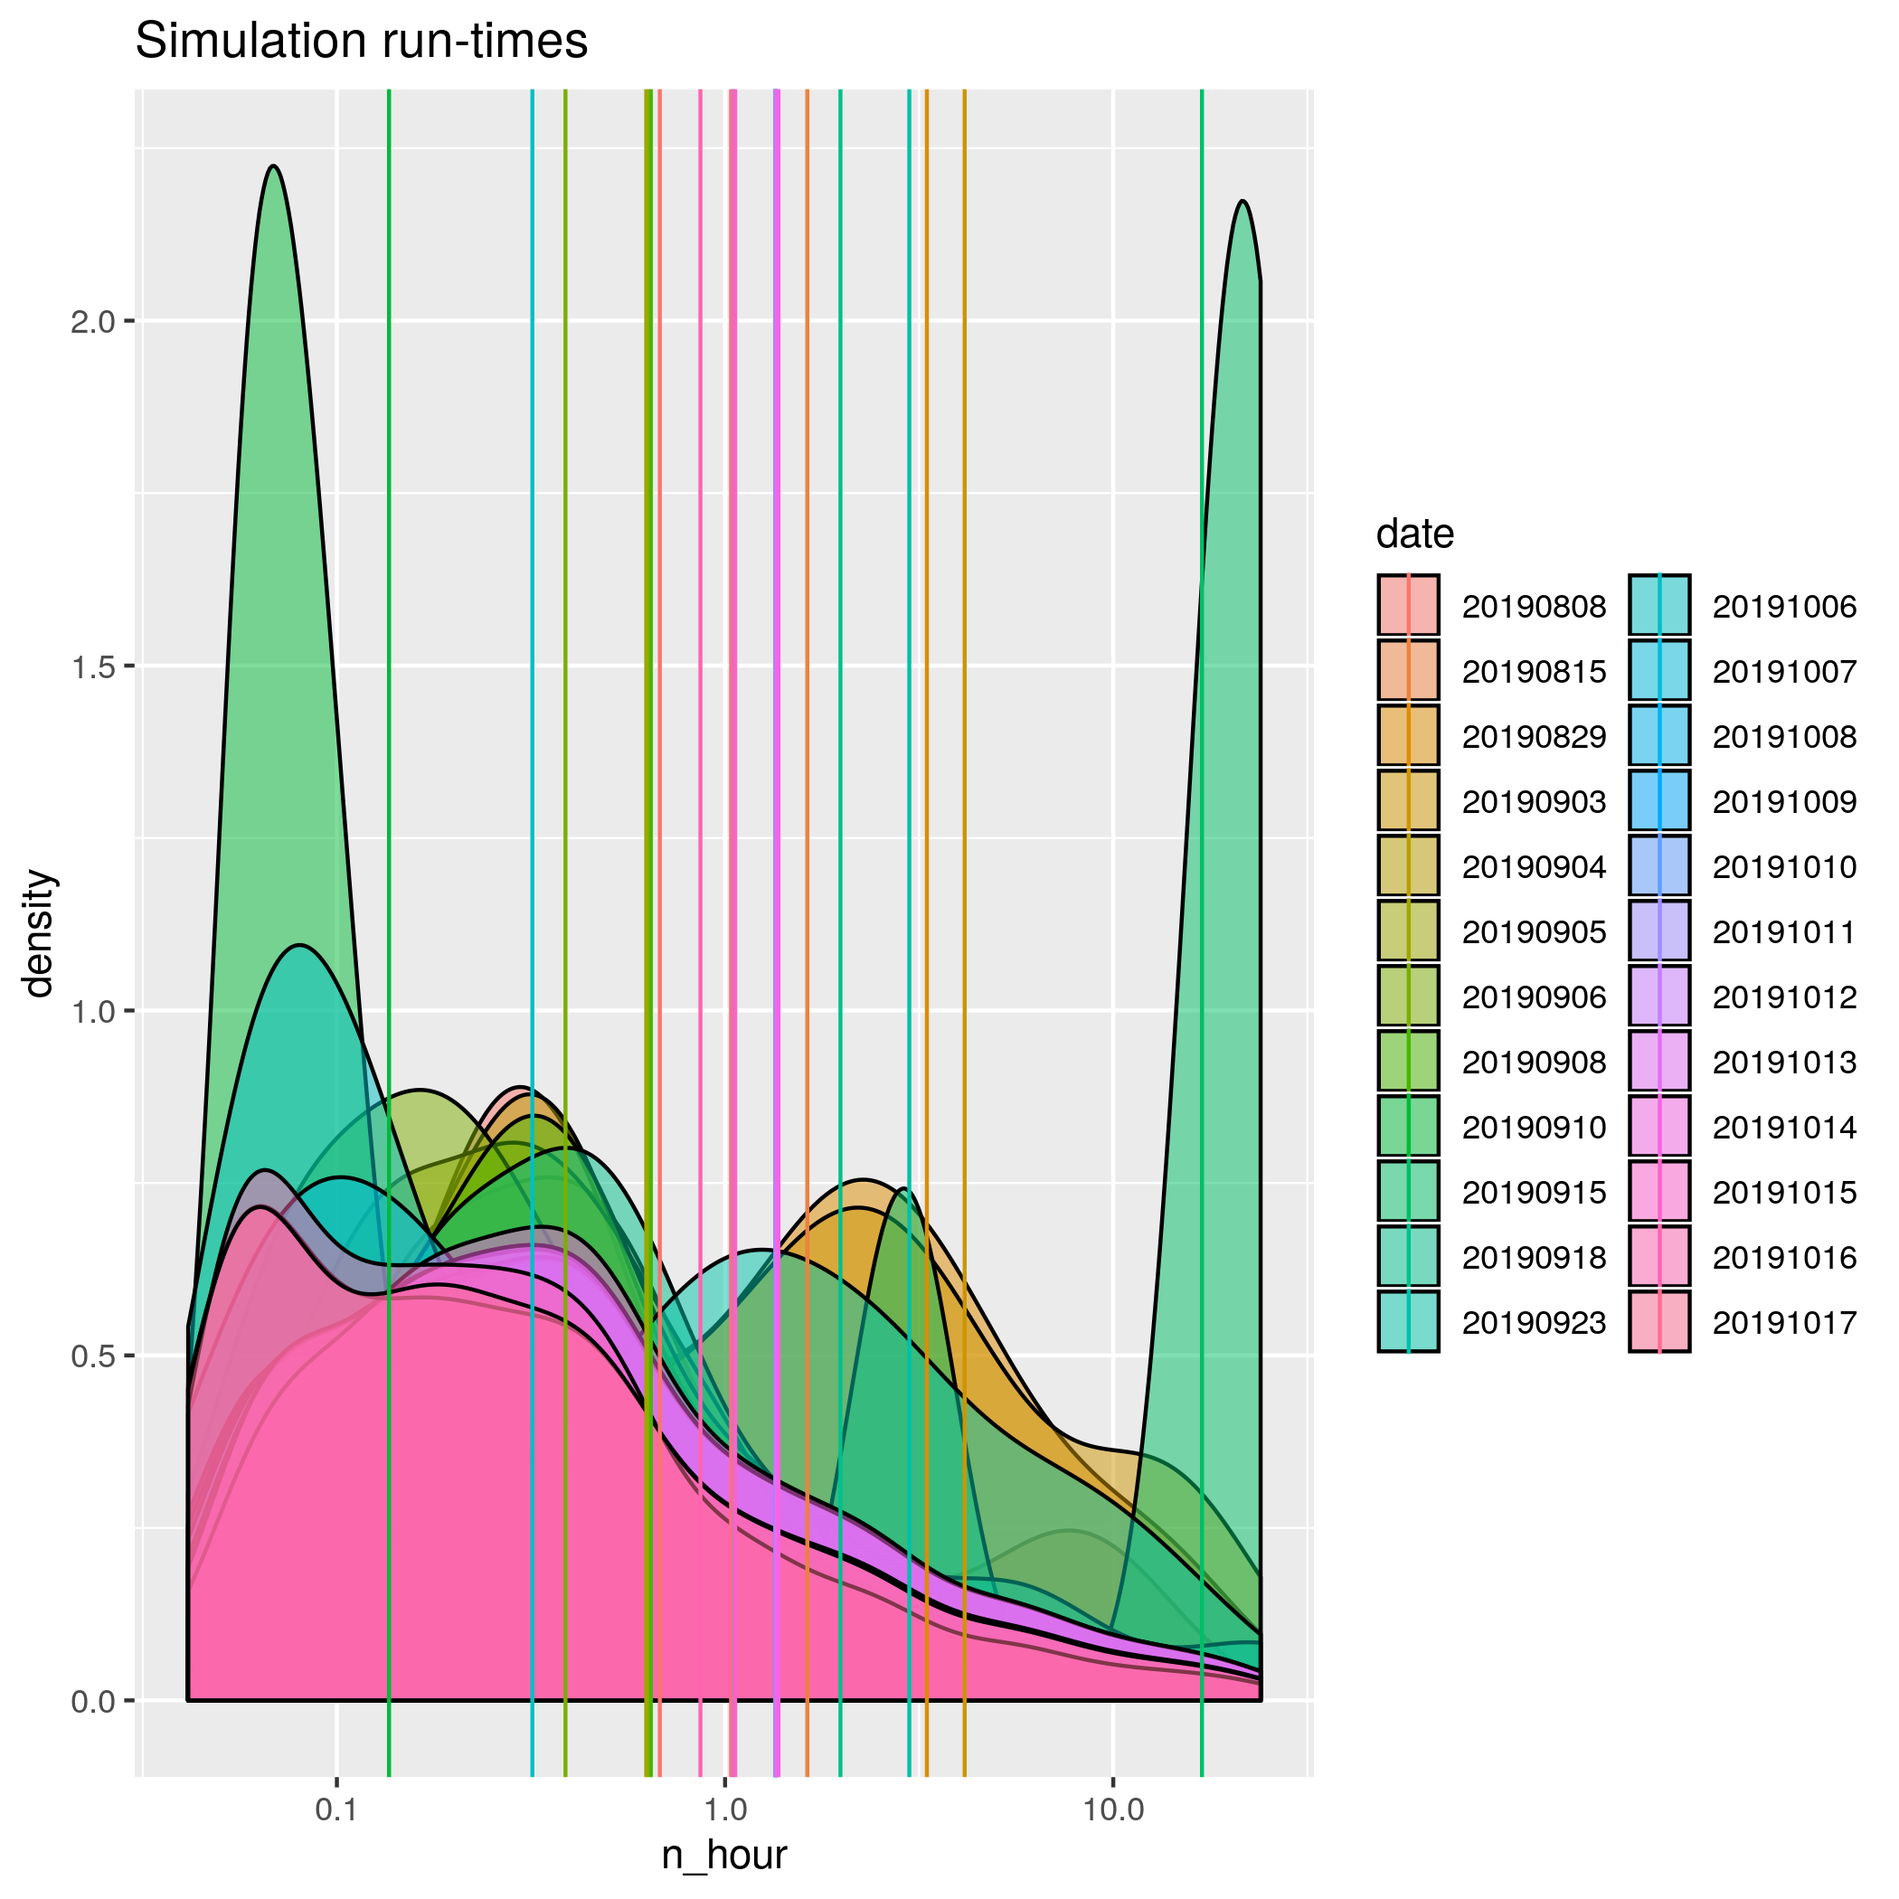
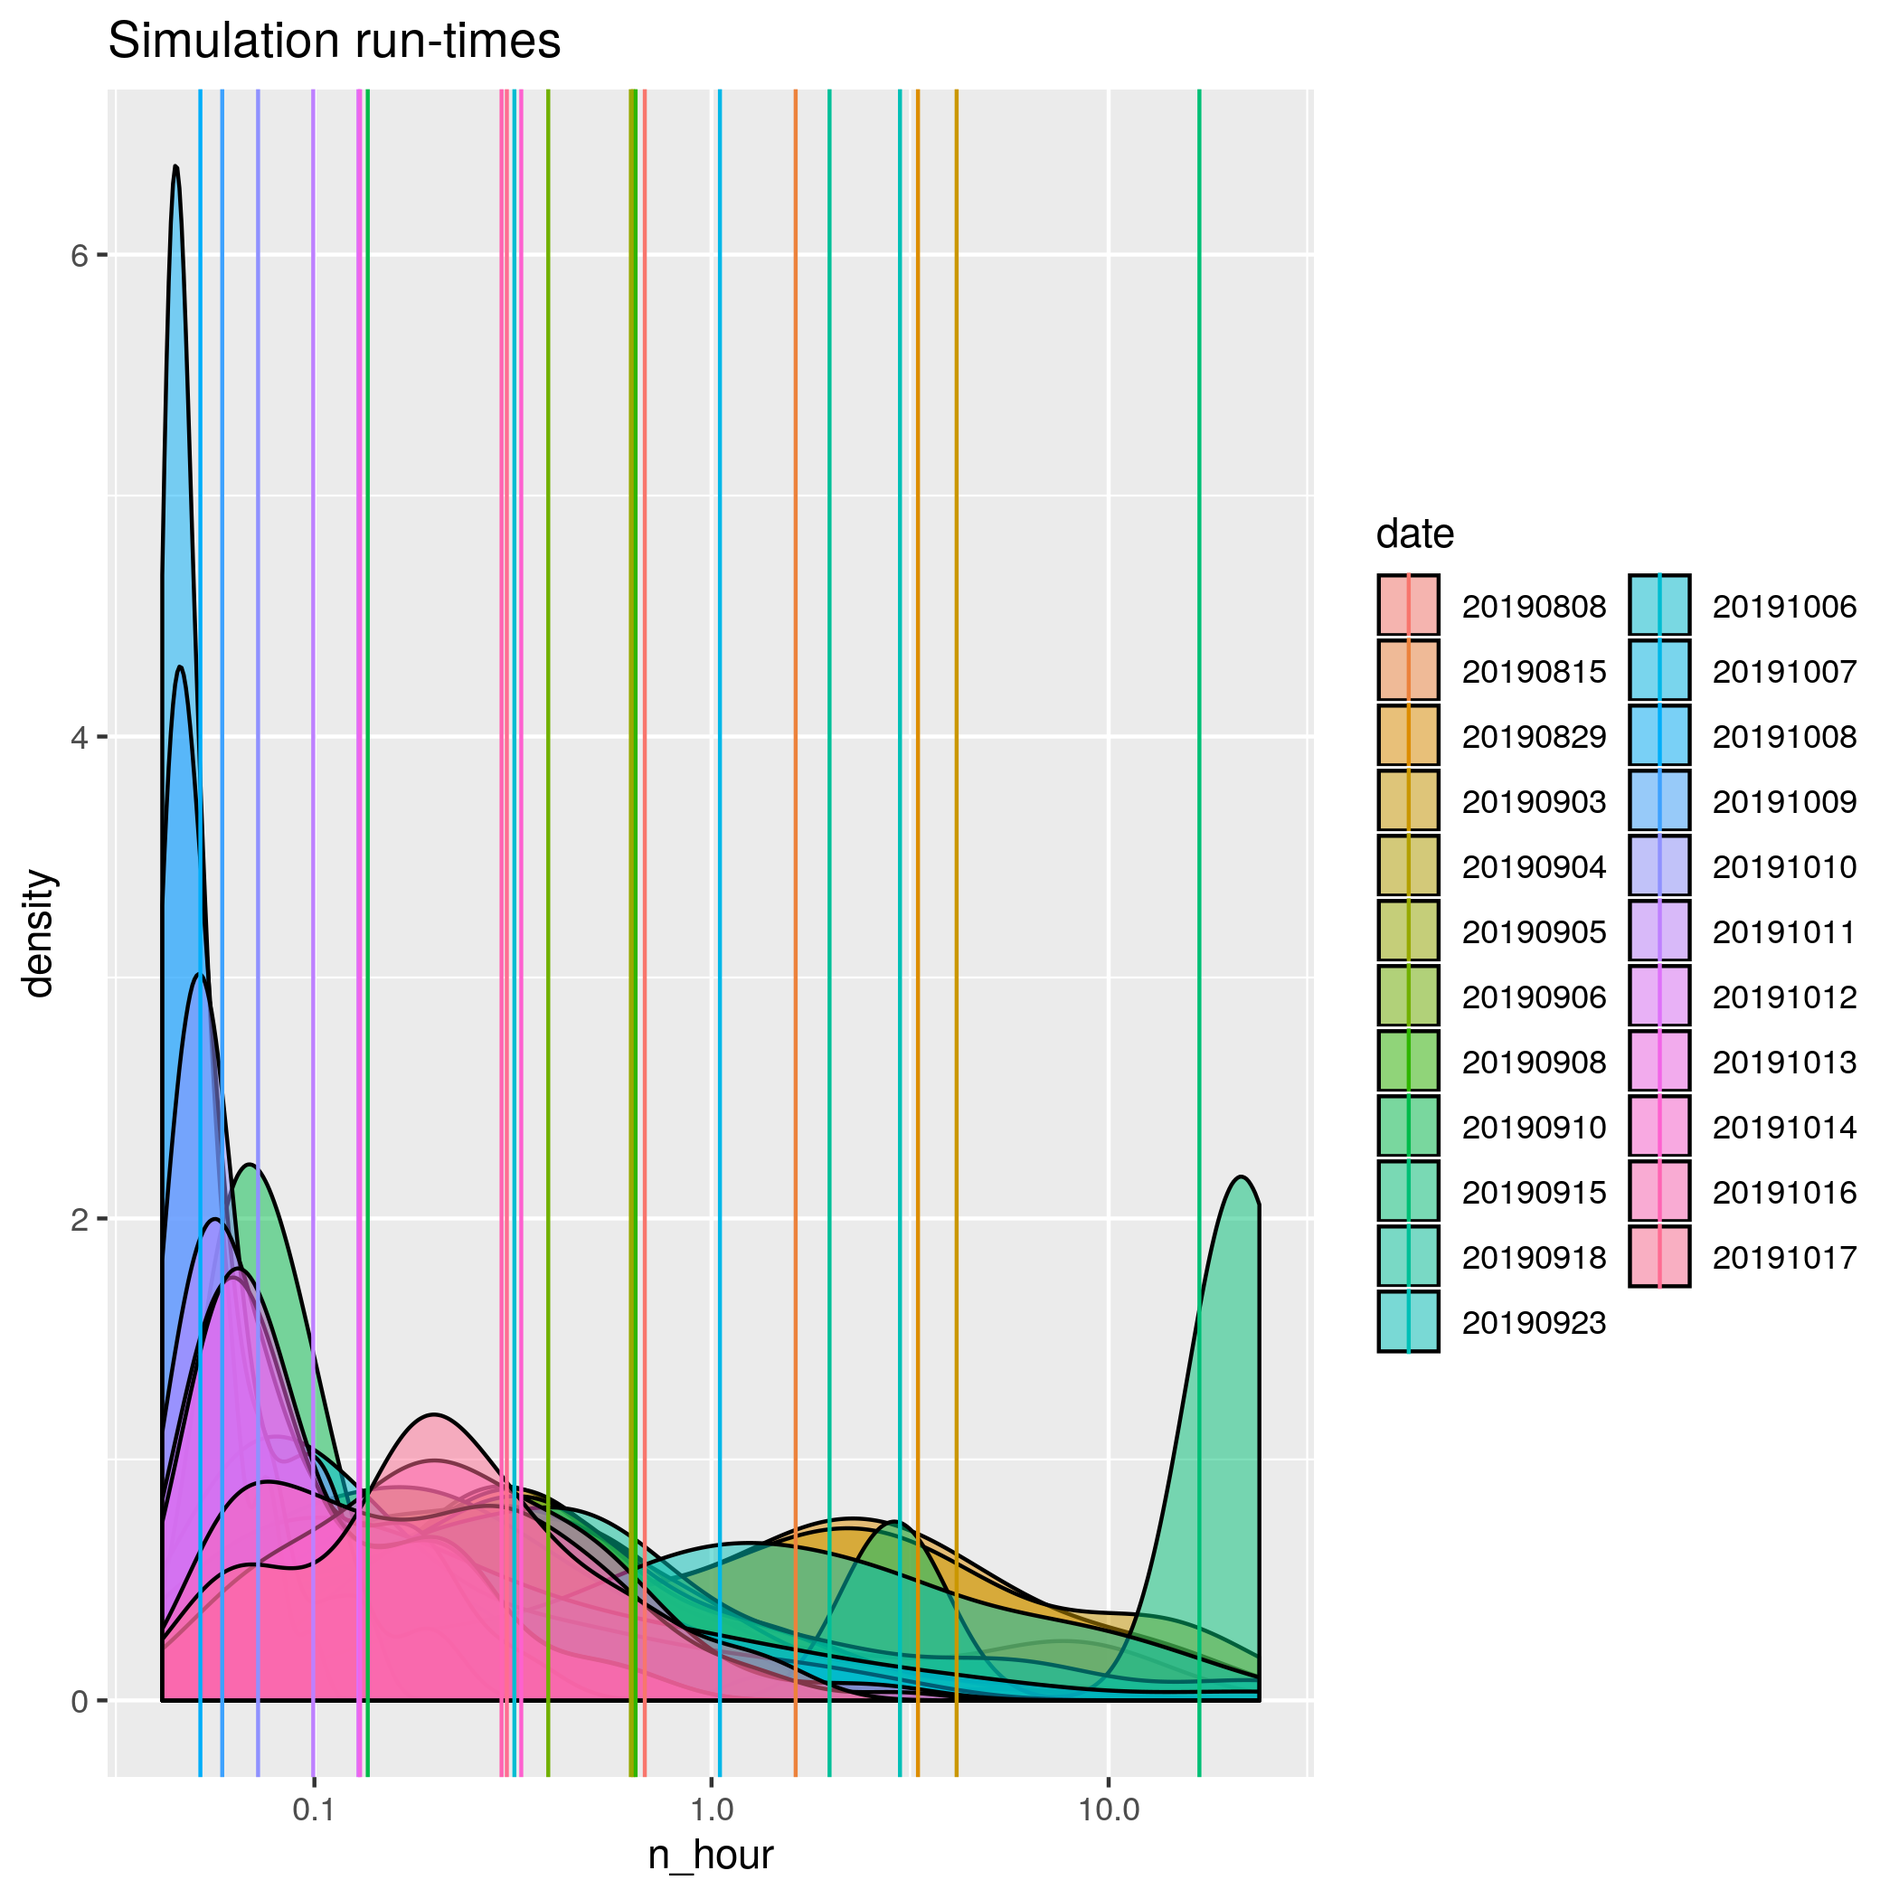
Updated figures, overview, verdict, fixed bug in 'scripts/90_collect_run_times.R'. Note that script does give a warning and thus cannot be trusted too much

diff --git a/overview.md b/overview.md
@@ -1,23 +1,25 @@
-|date     | mean_runtime_hours|      f_ok|    f_fail|  f_cancel| crown_age| n_candidates| mutation_rate| mcmc_chain_length| n_particles| n_replicates| mean_n_taxa| mean_ess| perc_low_ess| dna_length|nus           |
-|:--------|------------------:|---------:|---------:|---------:|---------:|------------:|-------------:|-----------------:|-----------:|------------:|-----------:|--------:|------------:|----------:|:-------------|
-|20190808 |          0.6791088| 1.0000000| 0.0000000| 0.0000000|         6|            3|        0.0625|           1111000|           1|            2|   26.812500| 541.2969|     31.25000|       1000|1,1.5,2,2.5   |
-|20190815 |          1.6287905| 0.9375000| 0.0000000| 0.0625000|         7|            3|        0.0625|           1111000|           1|            2|   56.750000| 463.0667|     36.66667|       1000|1,1.5,2,2.5   |
-|20190829 |          3.3101975| 0.9375000| 0.0625000| 0.0000000|         6|           40|        0.0625|           1000000|           1|            2|   26.812500| 421.7337|     39.13043|       1000|1,1.5,2,2.5   |
-|20190903 |          4.1418981| 0.9166667| 0.0000000| 0.0833333|         6|           40|        0.0625|           1000000|           1|            2|   26.812500| 429.4056|     37.77778|       1000|1,1.5,2,2.5   |
-|20190904 |          0.6348322| 1.0000000| 0.0000000| 0.0000000|         6|            4|        0.0625|           1000000|           1|            2|   26.812500| 478.9740|     31.25000|       1000|1,1.5,2,2.5   |
-|20190905 |          0.6264041| 0.9875000| 0.0125000| 0.0000000|         6|            4|        0.0625|           1000000|           1|           10|   28.333333| 502.4483|     28.90295|       1000|1,1.5,2,2.5   |
-|20190906 |          0.3879977| 1.0000000| 0.0000000| 0.0000000|         5|            4|        0.0625|           1000000|           1|            2|   17.666667| 610.8542|     19.27083|       1000|1,1.5,2,2.5   |
-|20190908 |          0.6437963| 1.0000000| 0.0000000| 0.0000000|         6|            4|        0.0625|           1000000|           1|            2|   26.812500| 478.9740|     31.25000|       1000|1,1.5,2,2.5   |
-|20190910 |          0.1362500| 1.0000000| 0.0000000| 0.0000000|         6|            4|        0.0625|           1000000|           1|            2|   26.812500| 583.5312|     16.66667|        100|1,1.5,2,2.5   |
-|20190915 |         16.9249306| 0.0833333| 0.9166667| 0.0000000|         6|            4|        0.0625|           1000000|          10|            2|   26.812500| 506.2708|     30.20833|       1000|1,1.5,2,2.5   |
-|20190918 |          1.9823404| 0.9583333| 0.0208333| 0.0208333|         7|            4|        0.0625|           1000000|           1|            2|   56.750000| 392.3895|     43.15789|       1000|1,1.5,2,2.5   |
-|20190923 |          2.9822315| 1.0000000| 0.0000000| 0.0000000|         7|            4|        0.0625|           1000000|          10|            2|   20.700000| 543.0250|     28.33333|       1000|0,0.5,1,1.5,2 |
-|20191006 |          0.3187825| 0.9791667| 0.0208333| 0.0000000|         7|            4|        0.0625|           1000000|           1|            2|   29.687500| 565.6211|     24.73684|        500|0,0.5,1,2     |
-|20191007 |          1.0499155| 0.9375000| 0.0416667| 0.0208333|         7|            4|        0.0625|           1000000|           1|            2|   29.687500| 509.5368|     33.15789|       1000|0,0.5,1,2     |
-|20191008 |          1.3474709| 0.8858025| 0.1049383| 0.0092593|         1|            4|        0.0625|           1000000|           1|            2|    2.645833| 705.4948|     18.75000|        500|0,0.5,1,2     |
-|20191009 |          1.3493396| 0.8847737| 0.1059671| 0.0092593|         2|            4|        0.0625|           1000000|           1|            2|    3.687500| 690.3594|     18.22917|        500|0,0.5,1,2     |
-|20191010 |          1.3486028| 0.8858025| 0.1049383| 0.0092593|         3|            4|        0.0625|           1000000|           1|            2|    5.020833| 633.2552|     25.52083|        500|0,0.5,1,2     |
-|20191011 |          1.3515414| 0.8847737| 0.1059671| 0.0092593|         4|            4|        0.0625|           1000000|           1|            2|    7.437500| 679.7865|     16.66667|        500|0,0.5,1,2     |
-|20191012 |          1.3517433| 0.8858025| 0.1049383| 0.0092593|         5|            4|        0.0625|           1000000|           1|            2|   10.083333| 637.8073|     21.35417|        500|0,0.5,1,2     |
-|20191013 |          1.3518132| 0.8858025| 0.1049383| 0.0092593|         5|            4|        0.0625|           1000000|           1|            2|   10.083333| 637.8073|     21.35417|        500|0,0.5,1,2     |
-|20191014 |          1.3724977| 0.8848548| 0.1058091| 0.0093361|         8|            4|        0.0625|           1000000|           1|            2|   24.125000| 487.3813|     29.37500|        500|0,0.5,1,1.5   |
+|date     |      f_ok|    f_fail|  f_cancel| mean_runtime_hours| crown_age| n_candidates| mutation_rate| mcmc_chain_length| n_particles| n_replicates| mean_n_taxa| mean_ess| perc_low_ess| dna_length|nus           |
+|:--------|---------:|---------:|---------:|------------------:|---------:|------------:|-------------:|-----------------:|-----------:|------------:|-----------:|--------:|------------:|----------:|:-------------|
+|20190808 | 1.0000000| 0.0000000| 0.0000000|          0.6791088|         6|            3|     0.0833333|           1111000|           1|            2|   26.812500| 541.2969|     31.25000|       1000|1,1.5,2,2.5   |
+|20190815 | 0.9375000| 0.0000000| 0.0625000|          1.6287905|         7|            3|     0.0833333|           1111000|           1|            2|   56.750000| 463.0667|     36.66667|       1000|1,1.5,2,2.5   |
+|20190829 | 0.9375000| 0.0625000| 0.0000000|          3.3101975|         6|           40|     0.0833333|           1000000|           1|            2|   26.812500| 421.7337|     39.13043|       1000|1,1.5,2,2.5   |
+|20190903 | 0.9166667| 0.0000000| 0.0833333|          4.1418981|         6|           40|     0.0833333|           1000000|           1|            2|   26.812500| 429.4056|     37.77778|       1000|1,1.5,2,2.5   |
+|20190904 | 1.0000000| 0.0000000| 0.0000000|          0.6348322|         6|            4|     0.0833333|           1000000|           1|            2|   26.812500| 478.9740|     31.25000|       1000|1,1.5,2,2.5   |
+|20190905 | 0.9875000| 0.0125000| 0.0000000|          0.6264041|         6|            4|     0.0833333|           1000000|           1|           10|   28.333333| 502.4483|     28.90295|       1000|1,1.5,2,2.5   |
+|20190906 | 1.0000000| 0.0000000| 0.0000000|          0.3879977|         5|            4|     0.0833333|           1000000|           1|            2|   17.666667| 610.8542|     19.27083|       1000|1,1.5,2,2.5   |
+|20190908 | 1.0000000| 0.0000000| 0.0000000|          0.6437963|         6|            4|     0.0833333|           1000000|           1|            2|   26.812500| 478.9740|     31.25000|       1000|1,1.5,2,2.5   |
+|20190910 | 1.0000000| 0.0000000| 0.0000000|          0.1362500|         6|            4|     0.0833333|           1000000|           1|            2|   26.812500| 583.5312|     16.66667|        100|1,1.5,2,2.5   |
+|20190915 | 0.0833333| 0.9166667| 0.0000000|         16.9249306|         6|            4|     0.0833333|           1000000|          10|            2|   26.812500| 506.2708|     30.20833|       1000|1,1.5,2,2.5   |
+|20190918 | 0.9583333| 0.0208333| 0.0208333|          1.9823404|         7|            4|     0.0833333|           1000000|           1|            2|   56.750000| 392.3895|     43.15789|       1000|1,1.5,2,2.5   |
+|20190923 | 1.0000000| 0.0000000| 0.0000000|          2.9822315|         7|            4|     0.0833333|           1000000|          10|            2|   20.700000| 543.0250|     28.33333|       1000|0,0.5,1,1.5,2 |
+|20191006 | 0.9791667| 0.0208333| 0.0000000|          0.3187825|         7|            4|     0.0833333|           1000000|           1|            2|   29.687500| 565.6211|     24.73684|        500|0,0.5,1,2     |
+|20191007 | 0.9375000| 0.0416667| 0.0208333|          1.0499155|         7|            4|     0.0833333|           1000000|           1|            2|   29.687500| 509.5368|     33.15789|       1000|0,0.5,1,2     |
+|20191008 | 1.0000000| 0.0000000| 0.0000000|          0.0516204|         1|            4|     0.0833333|           1000000|           1|            2|    2.645833| 705.4948|     18.75000|        500|0,0.5,1,2     |
+|20191009 | 0.9791667| 0.0208333| 0.0000000|          0.0585993|         2|            4|     0.0833333|           1000000|           1|            2|    3.687500| 690.3594|     18.22917|        500|0,0.5,1,2     |
+|20191010 | 1.0000000| 0.0000000| 0.0000000|          0.0721354|         3|            4|     0.0833333|           1000000|           1|            2|    5.020833| 633.2552|     25.52083|        500|0,0.5,1,2     |
+|20191011 | 0.9791667| 0.0208333| 0.0000000|          0.0993085|         4|            4|     0.0833333|           1000000|           1|            2|    7.437500| 679.7865|     16.66667|        500|0,0.5,1,2     |
+|20191012 | 1.0000000| 0.0000000| 0.0000000|          0.1290567|         5|            4|     0.0833333|           1000000|           1|            2|   10.083333| 637.8073|     21.35417|        500|0,0.5,1,2     |
+|20191013 | 1.0000000| 0.0000000| 0.0000000|          0.1303241|         5|            4|     0.0833333|           1000000|           1|            2|   10.083333| 637.8073|     21.35417|        500|0,0.5,1,2     |
+|20191014 | 1.0000000| 0.0000000| 0.0000000|          0.3317778|         8|            4|     0.0833333|           1000000|           1|            2|   24.125000| 487.3813|     29.37500|        500|0,0.5,1,1.5   |
+|20191016 | 0.9975000| 0.0025000| 0.0000000|          0.2959475|         6|            4|     0.0833333|          10000000|           1|            2|   14.225000| 815.8000|      2.50000|       1000|0,0.5,1,1.5   |
+|20191017 | 1.0000000| 0.0000000| 0.0000000|          0.3051597|         6|            4|     0.0833333|           1000000|           1|           20|   13.697500| 577.5881|     24.68750|       1000|0,0.5,1,1.5   |

diff --git a/verdict.md b/verdict.md
@@ -1,23 +1,25 @@
-|date     |most_runs_pass |mean_ess_good |most_ess_good |
-|:--------|:--------------|:-------------|:-------------|
-|20190808 |TRUE           |TRUE          |FALSE         |
-|20190815 |TRUE           |TRUE          |FALSE         |
-|20190829 |FALSE          |TRUE          |FALSE         |
-|20190903 |TRUE           |TRUE          |FALSE         |
-|20190904 |TRUE           |TRUE          |FALSE         |
-|20190905 |TRUE           |TRUE          |FALSE         |
-|20190906 |TRUE           |TRUE          |FALSE         |
-|20190908 |TRUE           |TRUE          |FALSE         |
-|20190910 |TRUE           |TRUE          |FALSE         |
-|20190915 |FALSE          |TRUE          |FALSE         |
-|20190918 |TRUE           |TRUE          |FALSE         |
-|20190923 |TRUE           |TRUE          |FALSE         |
-|20191006 |TRUE           |TRUE          |FALSE         |
-|20191007 |TRUE           |TRUE          |FALSE         |
-|20191008 |FALSE          |TRUE          |FALSE         |
-|20191009 |FALSE          |TRUE          |FALSE         |
-|20191010 |FALSE          |TRUE          |FALSE         |
-|20191011 |FALSE          |TRUE          |FALSE         |
-|20191012 |FALSE          |TRUE          |FALSE         |
-|20191013 |FALSE          |TRUE          |FALSE         |
-|20191014 |FALSE          |TRUE          |FALSE         |
+|date     |most_runs_pass |most_ess_good |
+|:--------|:--------------|:-------------|
+|20190808 |TRUE           |FALSE         |
+|20190815 |TRUE           |FALSE         |
+|20190829 |FALSE          |FALSE         |
+|20190903 |TRUE           |FALSE         |
+|20190904 |TRUE           |FALSE         |
+|20190905 |TRUE           |FALSE         |
+|20190906 |TRUE           |FALSE         |
+|20190908 |TRUE           |FALSE         |
+|20190910 |TRUE           |FALSE         |
+|20190915 |FALSE          |FALSE         |
+|20190918 |TRUE           |FALSE         |
+|20190923 |TRUE           |FALSE         |
+|20191006 |TRUE           |FALSE         |
+|20191007 |TRUE           |FALSE         |
+|20191008 |TRUE           |FALSE         |
+|20191009 |TRUE           |FALSE         |
+|20191010 |TRUE           |FALSE         |
+|20191011 |TRUE           |FALSE         |
+|20191012 |TRUE           |FALSE         |
+|20191013 |TRUE           |FALSE         |
+|20191014 |TRUE           |FALSE         |
+|20191016 |TRUE           |FALSE         |
+|20191017 |TRUE           |FALSE         |
